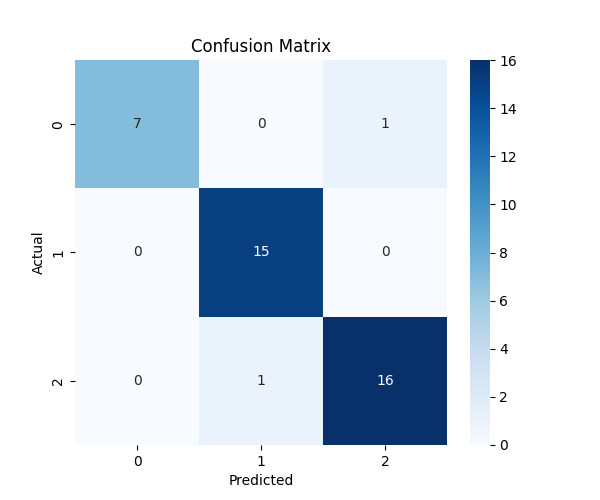
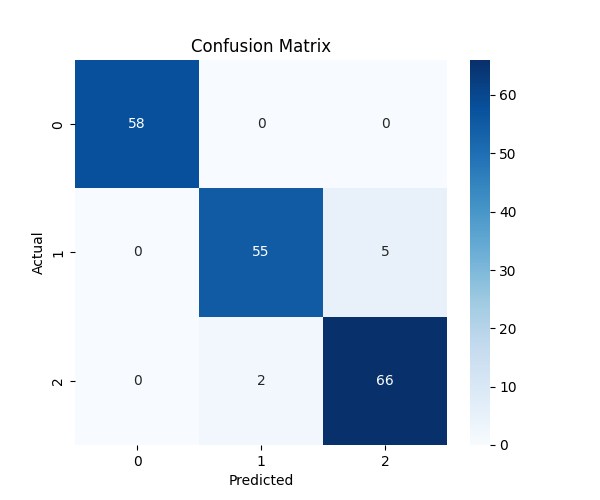
data augmentationn added

diff --git a/src/components/feature_extraction.py b/src/components/feature_extraction.py
@@ -1,100 +1,92 @@
 # src/components/feature_extraction.py
 
-import os
-import librosa
 import numpy as np
 import pandas as pd
+import librosa
+import os
 from tqdm import tqdm
+from ast import literal_eval
 from src.logger import logging
 from from_root import from_root
-from src.utils.main_utils import save_dataframe
 from src.constants import *
-from src.constants import * 
+from src.utils.main_utils import save_dataframe
+from src.components.data_augmentation import DataAugmentor
 
-class FeatureExtractor:
-    def __init__(self, sr=SAMPLE_RATE, duration=DURATION):
+
+class FeatureExtractorFromCSV:
+    def __init__(self, sr=SAMPLE_RATE):
         self.sr = sr
-        self.duration = duration
-        self.FRAME_LENGTH = FRAME_LENGTH
-        self.HOP_LENGTH = HOP_LENGTH
-        logging.info(f"[INIT] FeatureExtractor initialized with sr={sr}, duration={duration}")
+        self.frame_length = FRAME_LENGTH
+        self.hop_length = HOP_LENGTH
+        self.n_mfcc = MFCC_COUNT
+        self.duration = DURATION 
+        logging.info(f"[INIT] FeatureExtractorFromCSV initialized.")
 
-    def extract_features(self, audio_path):
-        try:
-            y, sr = librosa.load(audio_path, sr=self.sr, duration=self.duration)
-            logging.debug(f"[LOAD] Loaded file: {audio_path}")
+    def extract_features(self, y):
+        mfccs = librosa.feature.mfcc(y=y, sr=self.sr, n_mfcc=self.n_mfcc,
+                                     hop_length=self.hop_length, n_fft=self.frame_length)
+        zcr = librosa.feature.zero_crossing_rate(y, frame_length=self.frame_length,
+                                                 hop_length=self.hop_length)[0]
+        rmse = librosa.feature.rms(y=y, frame_length=self.frame_length,
+                                   hop_length=self.hop_length)[0]
 
-            if len(y) < 2048:
-                y = np.pad(y, (0, 2048 - len(y)), mode='constant')
-                logging.debug(f"[PAD] Audio padded: {audio_path}")
+        mfccs_mean = np.mean(mfccs, axis=1)
+        zcr_mean = np.mean(zcr)
+        rmse_mean = np.mean(rmse)
 
-            mfccs = librosa.feature.mfcc(y=y, sr=sr, n_mfcc=MFCC_COUNT,
-                                         hop_length=self.HOP_LENGTH, n_fft=self.FRAME_LENGTH)
-            zcr = librosa.feature.zero_crossing_rate(y, frame_length=self.FRAME_LENGTH,
-                                                     hop_length=self.HOP_LENGTH)[0]
-            rmse = librosa.feature.rms(y=y, frame_length=self.FRAME_LENGTH,
-                                       hop_length=self.HOP_LENGTH)[0]
+        return list(mfccs_mean) + [zcr_mean, rmse_mean]
 
-            mfccs_mean = np.mean(mfccs, axis=1)
-            zcr_mean = np.mean(zcr)
-            rmse_mean = np.mean(rmse)
-
-            logging.debug(f"[FEATURES] Extracted from: {audio_path}")
-            return list(mfccs_mean) + [zcr_mean, rmse_mean]
-
-        except Exception as e:
-            logging.error(f"[ERROR] Failed to extract features from {audio_path}: {e}")
-            return None
-
-    def initialize_feature_extractor(self, data_dir, output_csv):
-        feature_list = []
+ 
+    def initiate_featur_extraction_pipeline(self, data_dir, output_csv_path):
+        features_list = []
         labels = []
-
-        logging.info("Starting feature extraction for all audio files...")
-
+        
+        logging.info("🔍 Starting feature extraction from samples...")
+        da = DataAugmentor(self.sr, self.duration) 
         try:
-            for i in tqdm(range(NUM_FILES), desc="🔍 Extracting features"):
+            for i in tqdm(range(NUM_FILES), desc="🔊 Augmenting"):
                 for accent, label in LABELS.items():
-                    try:
-                        file_path = os.path.join(from_root(), data_dir, f"{accent}/{accent}_{i}.wav")
+                    file_path = os.path.join(data_dir, f"{accent}/{accent}_{i}.wav")
 
-                        if not os.path.exists(file_path):
-                            logging.warning(f"[SKIP] File not found: {file_path}")
-                            continue
-
-                        features = self.extract_features(file_path)
-
-                        if features:
-                            feature_list.append(features)
-                            labels.append(label)
-                        else:
-                            logging.warning(f"[SKIP] No features extracted from: {file_path}")
-
-                    except Exception as inner_e:
-                        logging.error(f"[ERROR] Exception while processing {file_path}: {inner_e}")
+                    if not os.path.exists(file_path):
+                        logging.warning(f"[SKIP] File not found: {file_path}")
                         continue
 
-            if not feature_list:
-                logging.critical("No features extracted. Please check paths or data.")
-                return
+                    y, sr = librosa.load(file_path, sr=self.sr, duration=self.duration)
+                    
+                    y = da._pad_or_trim(y)
+                  
+                    augmented = da.augment_one(y)
 
-            mfcc_columns = [f"mfcc_{i+1}" for i in range(MFCC_COUNT)]
-            columns = mfcc_columns + ["zcr", "rmse"]
-            df = pd.DataFrame(feature_list, columns=columns)
-            df["label"] = labels
-            df = df.sample(frac=1).reset_index(drop=True)
+                    if len(augmented) != 3:
+                        logging.warning(f"[SKIP] Augmentation failed: {file_path}")
+                        continue
 
-            save_dataframe(df, output_csv)
+                    # Original + 3 augmented versions
+                    for aug in [y] + augmented:
+                        features = self.extract_features(aug)
+                        features_list.append(features)
+                        labels.append(label)
 
-        except Exception as outer_e:
-            logging.critical(f"[CRITICAL] Feature extraction failed entirely: {outer_e}")
+        except Exception as e:
+            logging.error(f"[CRITICAL] Feature extraction failed: {e}")
+            return
 
+        mfcc_columns = [f"mfcc_{i+1}" for i in range(self.n_mfcc)]
+        all_columns = mfcc_columns + ["zcr", "rmse"]
+
+        final_df = pd.DataFrame(features_list, columns=all_columns)
+        final_df["label"] = labels
+
+        save_dataframe(final_df, output_csv_path)
+        logging.info(f"Feature extraction complete → {output_csv_path}")
+
+
+# ---------------------------------------------------------------------------
 
 if __name__ == "__main__":
-    data_dir = RAW_DATA_DIR
-    output_csv = FEATURES_CSV
-
-    logging.info("Starting feature extraction process.")
-    feature_extractor = FeatureExtractor()
-    feature_extractor.initialize_feature_extractor(data_dir, output_csv)
-    logging.info("Feature extraction completed successfully.")
+    extractor = FeatureExtractorFromCSV()
+    extractor.initiate_featur_extraction_pipeline(
+        data_dir=RAW_DATA_DIR,
+        output_csv_path=os.path.join(INTERIM_DATA_DIR, "features.csv")
+    )

diff --git a/src/components/data_augmentation.py b/src/components/data_augmentation.py
@@ -1,0 +1,38 @@
+# src/components/augment_and_save.py
+
+import librosa
+import numpy as np
+from src.logger import logging
+from src.constants import *
+
+
+class DataAugmentor:
+    def __init__(self, sr=SAMPLE_RATE, duration=DURATION):
+        self.sr = sr
+        self.duration = duration
+        self.target_len = int(sr * duration)
+        logging.info(f"[INIT] DataAugmentor initialized")
+
+    def _pad_or_trim(self, y):
+        if len(y) > self.target_len:
+            return y[:self.target_len]
+        if len(y) < self.target_len:
+            return np.pad(y, (0, self.target_len - len(y)))
+        return y
+
+    def augment_one(self, y):
+        try:
+            y_stretch = librosa.effects.time_stretch(y, rate=1.2)
+            y_shift = librosa.effects.pitch_shift(y, sr=self.sr, n_steps=2)
+            y_noise = y + 0.005 * np.random.randn(len(y))
+
+            return [
+                self._pad_or_trim(y_stretch),
+                 self._pad_or_trim(y_shift),
+                self._pad_or_trim(y_noise),
+            ]
+        except Exception as e:
+            logging.error(f"[AUGMENT] Failed: {e}")
+            return []
+
+  

diff --git a/src/constants/__init__.py b/src/constants/__init__.py
@@ -1,6 +1,7 @@
 import os
 from from_root import from_root
 
+
 # Feature extraction constants 
 
 
@@ -22,6 +23,8 @@ LABELS = {
 
 RAW_DATA_DIR = os.path.join(from_root(), "data", "raw")
 PREPROCESSED_DATA_DIR = os.path.join(from_root(), "data", "preprocessed")
+INTERIM_DATA_DIR = os.path.join(from_root(), "data", "interim")
+DATA_AUGMENTED_DIR = os.path.join(from_root(),"data","augmented_data")
 
 # Data Preprocessing constants
 
